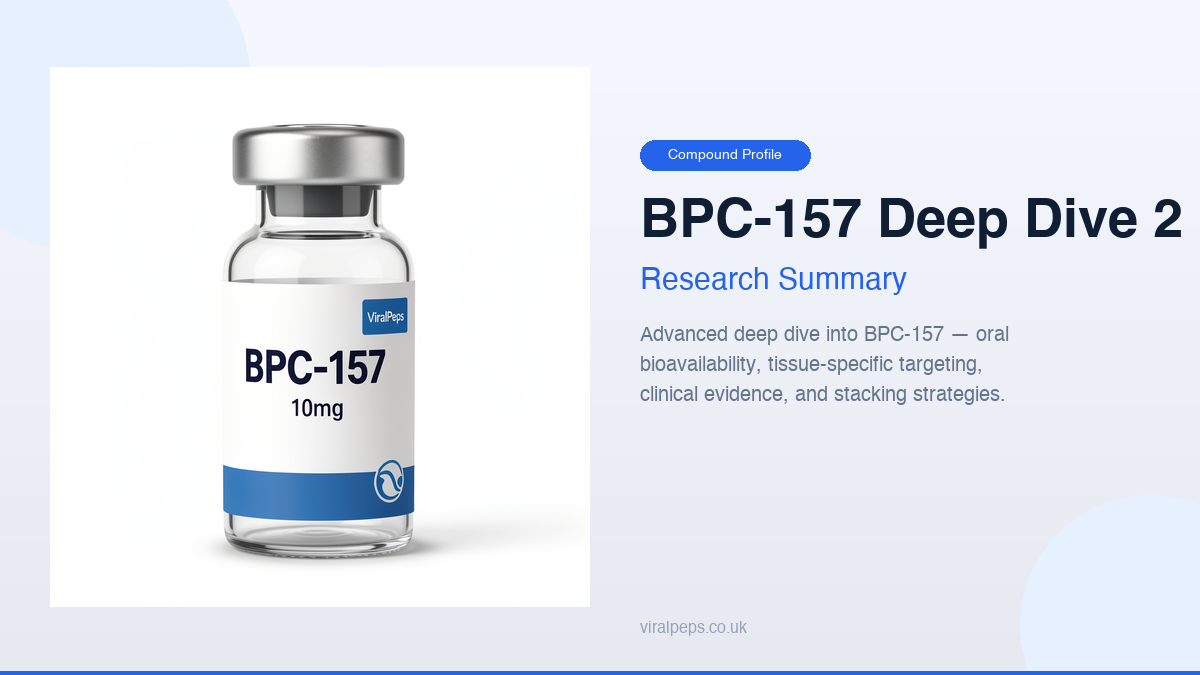
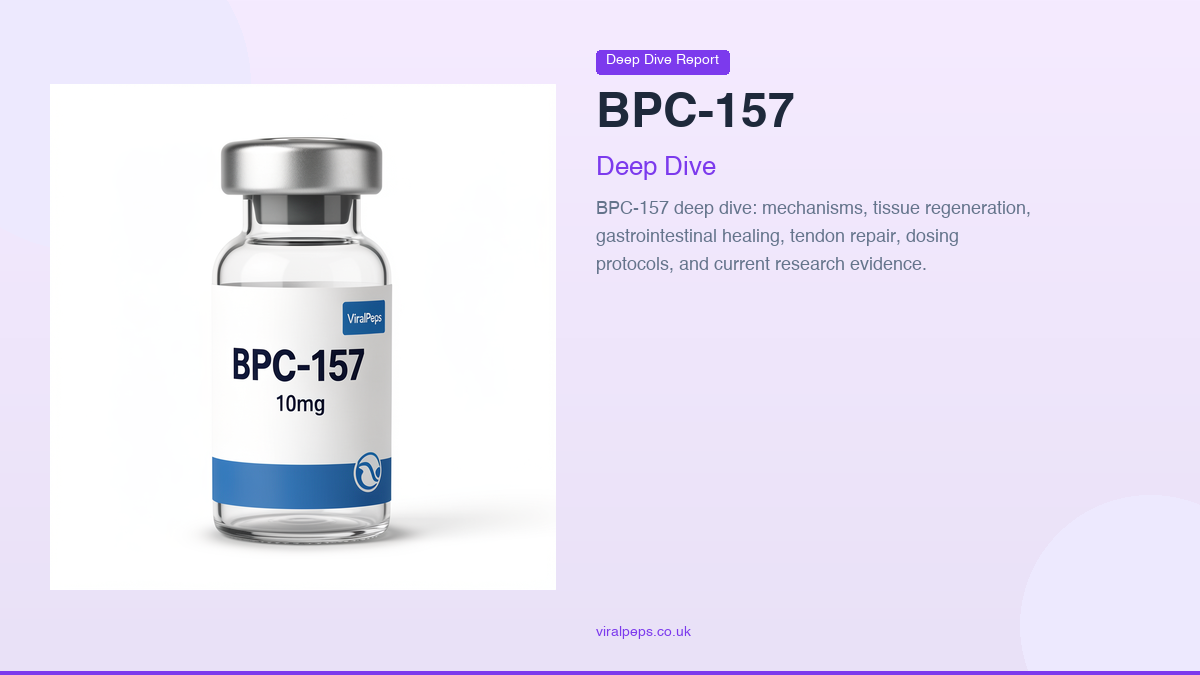
Update 3 deep dives to purple/lavender: BPC-157, Tirzepatide, Semaglutide

diff --git a/scripts/generate-purple-deep-dives.py b/scripts/generate-purple-deep-dives.py
@@ -1,0 +1,125 @@
+"""Generate 3 purple/lavender deep dive images for BPC-157, Tirzepatide, Semaglutide."""
+from PIL import Image, ImageDraw, ImageFont
+import os
+
+font_dir = "/System/Library/Fonts"
+helvetica = os.path.join(font_dir, "Helvetica.ttc")
+if os.path.exists(helvetica):
+    title_font = ImageFont.truetype(helvetica, 48, index=1)
+    subtitle_font = ImageFont.truetype(helvetica, 26)
+    badge_font = ImageFont.truetype(helvetica, 14)
+    body_font = ImageFont.truetype(helvetica, 18)
+    small_font = ImageFont.truetype(helvetica, 14)
+else:
+    title_font = subtitle_font = badge_font = body_font = small_font = ImageFont.load_default()
+
+card_w, card_h = 1200, 675
+PURPLE_ACCENT = (124, 58, 237)
+DARK = (30, 41, 59)
+BODY_COLOR = (100, 116, 139)
+WHITE = (255, 255, 255)
+
+
+def draw_purple_deep_dive(compound, vial_path, output_path, description_lines):
+    card = Image.new("RGB", (card_w, card_h), WHITE)
+    draw = ImageDraw.Draw(card)
+
+    # Purple/lavender gradient background
+    for y in range(card_h):
+        ratio = y / card_h
+        r = int(245 - ratio * 12)
+        g = int(235 - ratio * 10)
+        b = int(255 - ratio * 8)
+        for x in range(card_w):
+            draw.point((x, y), fill=(r, g, b))
+
+    # Decorative circles (light purple)
+    draw.ellipse([-80, -80, 250, 250], fill=(237, 233, 254))
+    draw.ellipse([card_w - 180, card_h - 180, card_w + 80, card_h + 80], fill=(237, 233, 254))
+
+    # Vial image (left side)
+    if os.path.exists(vial_path):
+        vial = Image.open(vial_path).convert("RGBA")
+        vial_h = int(card_h * 0.75)
+        vial_w = int(vial_h * vial.width / vial.height)
+        vial = vial.resize((vial_w, vial_h), Image.LANCZOS)
+        card.paste(vial, (50, int((card_h - vial_h) / 2)), vial)
+        text_left = 50 + vial_w + 40
+    else:
+        text_left = 50
+
+    # Badge (purple)
+    badge_text = "Deep Dive Report"
+    text_w = draw.textlength(badge_text, font=badge_font)
+    badge_w = int(text_w + 20)
+    badge_h = 24
+    draw.rounded_rectangle(
+        [text_left, 50, text_left + badge_w, 50 + badge_h],
+        radius=4, fill=PURPLE_ACCENT,
+    )
+    draw.text((text_left + 10, 53), badge_text, fill=WHITE, font=badge_font)
+
+    # Title
+    draw.text((text_left, 90), compound, fill=DARK, font=title_font)
+
+    # Subtitle (purple)
+    draw.text((text_left, 154), "Deep Dive", fill=PURPLE_ACCENT, font=subtitle_font)
+
+    # Description
+    desc_y = 200
+    for line in description_lines:
+        draw.text((text_left, desc_y), line, fill=BODY_COLOR, font=body_font)
+        desc_y += 28
+
+    # Footer
+    draw.text((text_left, card_h - 50), "viralpeps.co.uk", fill=PURPLE_ACCENT, font=small_font)
+
+    # Accent stripe (purple)
+    draw.rectangle([0, card_h - 4, card_w, card_h], fill=PURPLE_ACCENT)
+
+    os.makedirs(os.path.dirname(output_path) or ".", exist_ok=True)
+    card.save(output_path, quality=97)
+    return os.path.abspath(output_path)
+
+
+CARDS = [
+    {
+        "compound": "BPC-157",
+        "vial_path": "public/images/compounds/bpc-157-vial.png",
+        "output_path": "public/images/guides/bpc157-deep-dive-2.png",
+        "description_lines": [
+            "BPC-157 deep dive: mechanisms, tissue regeneration,",
+            "gastrointestinal healing, tendon repair, dosing",
+            "protocols, and current research evidence.",
+        ],
+    },
+    {
+        "compound": "Tirzepatide",
+        "vial_path": "public/images/compounds/tirzepatide-vial.png",
+        "output_path": "public/images/guides/tirzepatide-deep-dive-2.png",
+        "description_lines": [
+            "Tirzepatide deep dive: dual GIP/GLP-1 agonist",
+            "for metabolic research, superior weight loss,",
+            "glycemic control, and cardiovascular outcomes.",
+        ],
+    },
+    {
+        "compound": "Semaglutide",
+        "vial_path": "public/images/compounds/semaglutide-vial.png",
+        "output_path": "public/images/guides/semaglutide-deep-dive.png",
+        "description_lines": [
+            "Semaglutide deep dive: GLP-1 receptor agonist for",
+            "type 2 diabetes, obesity research, cardiovascular",
+            "outcomes, and metabolic health applications.",
+        ],
+    },
+]
+
+if __name__ == "__main__":
+    root = os.path.join(os.path.dirname(__file__), "..")
+    for card in CARDS:
+        vp = os.path.join(root, card["vial_path"])
+        op = os.path.join(root, card["output_path"])
+        draw_purple_deep_dive(card["compound"], vp, op, card["description_lines"])
+        kb = os.path.getsize(op)//1024
+        print(f"  ✓ {card['output_path']} ({kb} KB)")
